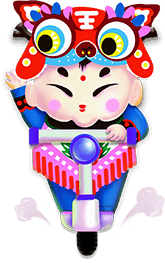
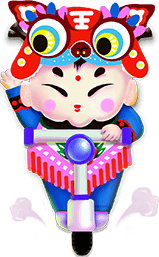
画人的阴影 1、代码精简 2、碰撞检测的边界条件 3、跳起后的人于阴影的重合

diff --git a/js/paoku.js b/js/paoku.js
@@ -206,6 +206,18 @@ var paoku = {
             ctx.drawImage(_this.houseList[i].img, _this.houseList[i].position[0], _this.houseList[i].position[1], _this.houseList[i].renderSize[0], _this.houseList[i].renderSize[1])
         }
     },//画背景的两侧建筑
+    renderRunnerShadow: function (ctx) {
+        var _this = this;
+        var w = this.w;
+        var h = this.h;
+        //按照图片尺寸设定人物宽高
+        _this.runnerShadow.img = new Image();
+        _this.runnerShadow.img.src = './img/game/runnerShadow.png';
+        _this.runnerShadow.size = [w * 0.132, w * 0.132 * 32 / 99];//99*32
+        _this.runnerShadow.renderSize = [_this.runnerShadow.size[0], _this.runnerShadow.size[1]];
+        _this.runnerShadow.position = [(w-_this.runnerShadow.renderSize[0])/2,760*h/1334];//760量的
+        ctx.drawImage(_this.runnerShadow.img,_this.runnerShadow.position[0],_this.runnerShadow.position[1],_this.runnerShadow.renderSize[0],_this.runnerShadow.renderSize[1])
+    },
     renderRunner: function (ctx) {
         var _this = this;
         var w = this.w;
@@ -216,7 +228,7 @@ var paoku = {
         _this.runner.size = [w * 0.22 * 0.95, w * 0.22 * 263 / 165 * 0.95];
         _this.runner.renderSize = [_this.runner.size[0], _this.runner.size[1]];
         _this.runner.centerposition = (w - _this.runner.renderSize[0]) / 2;
-        _this.runner.position = [_this.runner.centerposition, 515*h/1334];//515看图定的
+        _this.runner.position = [_this.runner.centerposition, _this.runnerShadow.position[1] - _this.runner.renderSize[1] + _this.runnerShadow.renderSize[1]*1/2];//515看图定的
         _this.runner.floor = [_this.runner.centerposition, _this.runner.position[1]];
         _this.runner.ceiling = [_this.runner.centerposition, _this.runner.floor[1] - 300 * h / 1334];
         _this.runnerSpeed = _this.baseRunnerSpeed = 300 * h / (_this.runnerTime * 1334);
@@ -224,18 +236,6 @@ var paoku = {
         _this.runnerHoriCenterCord = [_this.runner.position[0] + _this.runner.size[0] / 2, _this.runner.position[1] + _this.runner.size[1] / 2];
 
         ctx.drawImage(_this.runner.img, _this.runner.position[0], _this.runner.position[1], _this.runner.renderSize[0], _this.runner.renderSize[1]);
-    },
-    renderRunnerShadow: function (ctx) {
-        var _this = this;
-        var w = this.w;
-        var h = this.h;
-        //按照图片尺寸设定人物宽高
-        _this.runnerShadow.img = new Image();
-        _this.runnerShadow.img.src = './img/game/runnerShadow.png';
-        _this.runnerShadow.size = [w * 0.132, w * 0.132 * 32 / 99];//99*32
-        _this.runnerShadow.renderSize = [_this.runnerShadow.size[0], _this.runnerShadow.size[1]];
-        _this.runnerShadow.position = [(w-_this.runnerShadow.renderSize[0])/2,740*h/1334];//740量的
-        ctx.drawImage(_this.runnerShadow.img,_this.runnerShadow.position[0],_this.runnerShadow.position[1],_this.runnerShadow.renderSize[0],_this.runnerShadow.renderSize[1])
     },
     renderListener: function (ctx) {
         var _this = this;
@@ -418,10 +418,12 @@ var paoku = {
     },
     runRunnerShadow:function (ctx) {
         var _this = this;
-        _this.runnerShadow.radio = (_this.runner.position[1]-_this.runner.floor[1]) / (_this.runner.ceiling[1]-_this.runner.floor[1]);
+        var w = _this.w;
+        _this.runnerShadow.radio = (_this.runner.ceiling[1] - _this.runner.position[1]) / (_this.runner.ceiling[1]-_this.runner.floor[1]);
         _this.runnerShadow.radio= _this.runnerShadow.radio?_this.runnerShadow.radio:1;
         _this.runnerShadow.shadowSizeRadio = _this.runnerShadow.radio * (1 - _this.minShadowSizeM) + _this.minShadowSizeM;
         _this.runnerShadow.renderSize = [_this.runnerShadow.size[0] * _this.runnerShadow.shadowSizeRadio, _this.runnerShadow.size[1] * _this.runnerShadow.shadowSizeRadio];
+        _this.runnerShadow.position = [(w-_this.runnerShadow.renderSize[0])/2,_this.runnerShadow.position[1]];//740量的
         ctx.drawImage(_this.runnerShadow.img,_this.runnerShadow.position[0],_this.runnerShadow.position[1],_this.runnerShadow.renderSize[0],_this.runnerShadow.renderSize[1])
     },
     bind: function (ctx) {
@@ -484,13 +486,6 @@ var paoku = {
     },
 
 //碰撞检测
-    collisionTest: function () {
-        var _this = this;
-        var index = _this.getIndex();
-        //底部重合
-        var coincideStart = _this.runner.position[1] + _this.runner.renderSize[1] - _this.blockList[index].renderSize[1];
-        return (_this.blockList[index].position[1] < coincideStart && _this.blockList[index].position[1] > coincideStart - 30 * _this.h / 1334 )//30自定
-    },
     getIndex: function () {
         var _this = this;
         _this.successJump = false;
@@ -505,6 +500,13 @@ var paoku = {
             }
         }
         return index = _this.blockToRunnerA.indexOf(Math.min.apply(null, arr));
+    },
+    collisionTest: function () {
+        var _this = this;
+        var index = _this.getIndex();
+        //底部重合
+        var coincideStart = _this.runner.position[1] + _this.runner.renderSize[1] - _this.blockList[index].renderSize[1];
+        return (_this.blockList[index].position[1] < coincideStart && _this.blockList[index].position[1] > coincideStart - 30 * _this.h / 1334 )//30自定
     },
     jumpCollisionTest: function () {
         var _this = this;

diff --git a/newYearH5.html b/newYearH5.html
@@ -24,7 +24,7 @@
     </div>
     <div class="part part2">
         <div class="rule"></div>
-        <a href="" class="toGame">
+        <a href="newYearGame.html" class="toGame">
             <div class="toGameText"></div>
             <div class="toGameChild"></div>
         </a>
@@ -72,7 +72,7 @@
         bind:function () {
             var $rule = $('.rele');
             var $themes = $('.theme');
-            var windowH = $(window).height()
+            var windowH = $(window).height();
             $(window).on('scroll',function () {
                 var scrollTop = $(window).scrollTop();
                 $themes.each(function (key,value) {

diff --git a/css/newYearGame.less b/css/newYearGame.less
@@ -40,7 +40,6 @@ a{ text-decoration:none;}
     }
   }
   .countTime{
-    display: none;
     background-color: rgba(0,0,0,0.5);
     position: fixed;
     left:0;
@@ -48,6 +47,7 @@ a{ text-decoration:none;}
     width: 100%;
     height: 100%;
     //display:-webkit-box;
+    display: none;
     -webkit-box-pack:center;
     -webkit-box-align:center;
     .cutTime{
